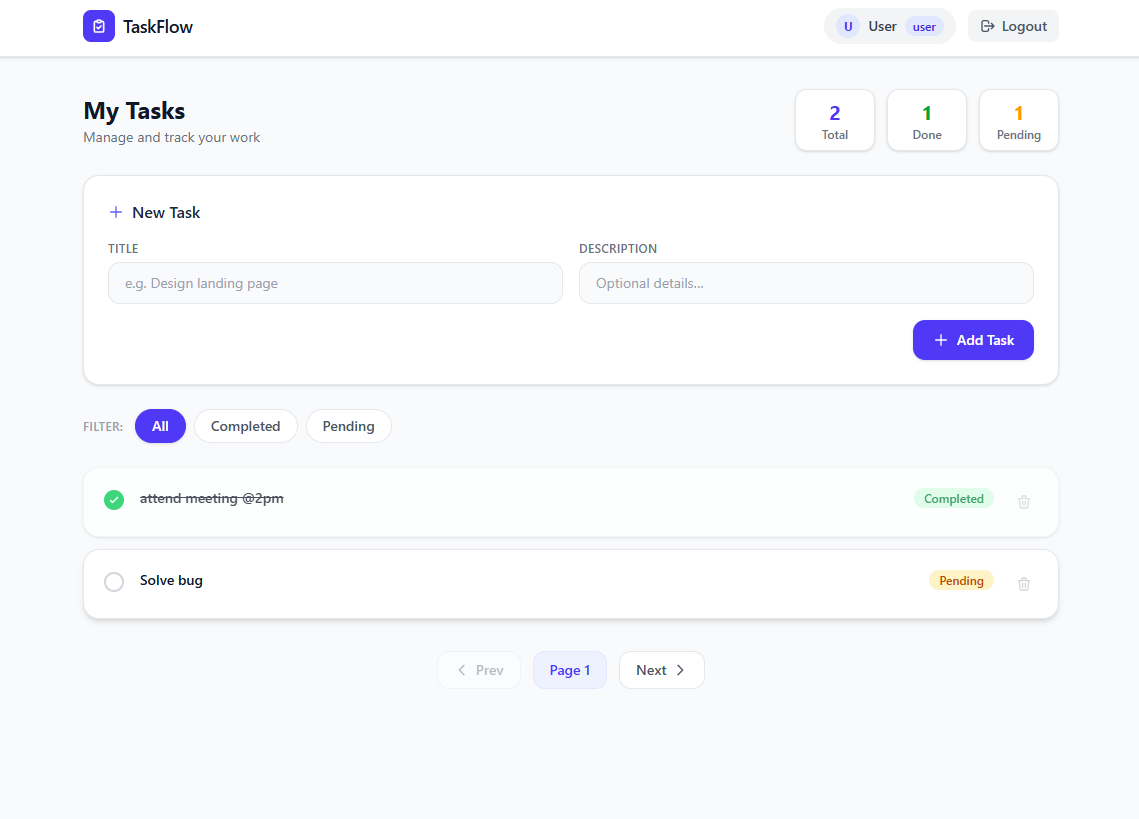
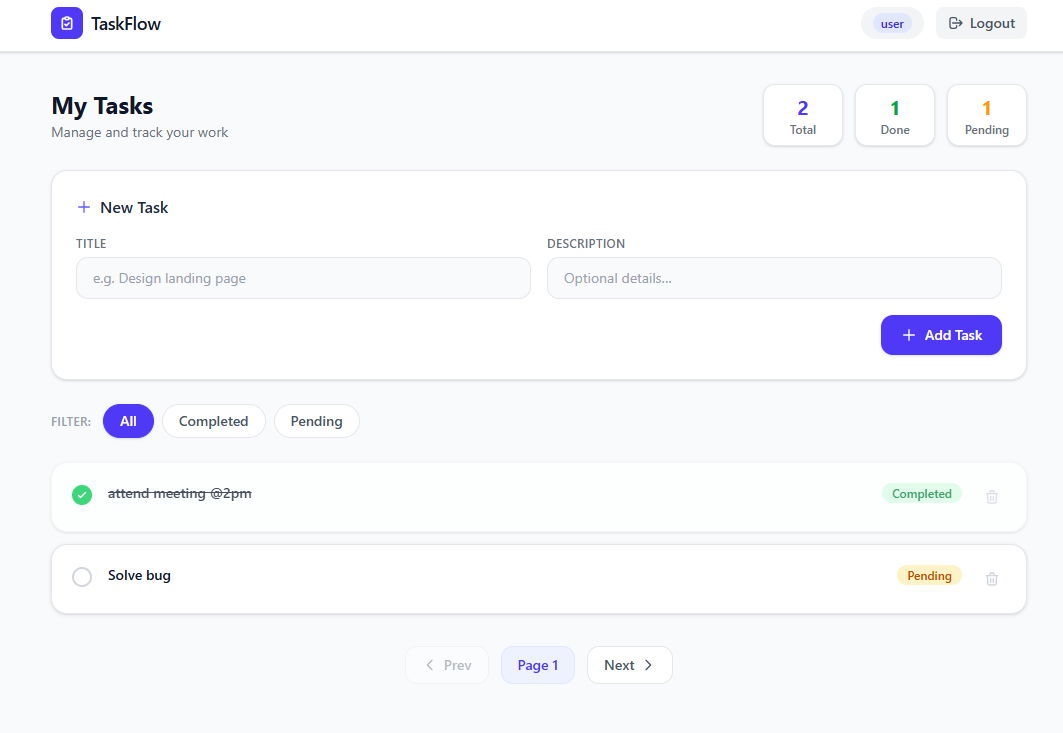
Update UI

diff --git a/frontend/src/pages/Dashboard.jsx b/frontend/src/pages/Dashboard.jsx
@@ -102,10 +102,6 @@ function Dashboard() {
           <div className="flex items-center gap-3">
             {/* User badge */}
             <div className="hidden sm:flex items-center gap-2 bg-gray-100 rounded-full px-3 py-1.5">
-              <div className="w-6 h-6 rounded-full bg-indigo-100 flex items-center justify-center text-indigo-600 font-bold text-xs uppercase">
-                {username.charAt(0)}
-              </div>
-              <span className="text-sm text-gray-700 font-medium">{username}</span>
               <span className={`text-xs px-2 py-0.5 rounded-full font-semibold ${
                 role === "admin" ? "bg-purple-100 text-purple-700" : "bg-indigo-100 text-indigo-700"
               }`}>
@@ -114,7 +110,7 @@ function Dashboard() {
             </div>
 
             {/* Admin Panel button */}
-            {role === "admin" && (
+            {/* {role === "admin" && (
               <button
                 onClick={() => navigate("/admin")}
                 className="flex items-center gap-1.5 text-sm font-medium bg-purple-600 hover:bg-purple-700 text-white px-3 py-1.5 rounded-lg transition-colors"
@@ -125,7 +121,7 @@ function Dashboard() {
                 </svg>
                 Admin Panel
               </button>
-            )}
+            )} */}
 
             {/* Logout */}
             <button
@@ -152,15 +148,15 @@ function Dashboard() {
             <p className="text-sm text-gray-500 mt-0.5">Manage and track your work</p>
           </div>
           <div className="flex gap-3">
-            <div className="bg-white rounded-xl border border-gray-200 shadow-sm px-4 py-2 text-center min-w-[80px]">
+            <div className="bg-white rounded-xl border border-gray-200 shadow-sm px-4 py-2 text-center min-w-20">
               <p className="text-xl font-bold text-indigo-600">{tasks.length}</p>
               <p className="text-xs text-gray-500 font-medium">Total</p>
             </div>
-            <div className="bg-white rounded-xl border border-gray-200 shadow-sm px-4 py-2 text-center min-w-[80px]">
+            <div className="bg-white rounded-xl border border-gray-200 shadow-sm px-4 py-2 text-center  min-w-20">
               <p className="text-xl font-bold text-green-600">{completedCount}</p>
               <p className="text-xs text-gray-500 font-medium">Done</p>
             </div>
-            <div className="bg-white rounded-xl border border-gray-200 shadow-sm px-4 py-2 text-center min-w-[80px]">
+            <div className="bg-white rounded-xl border border-gray-200 shadow-sm px-4 py-2 text-center  min-w-20">
               <p className="text-xl font-bold text-amber-500">{pendingCount}</p>
               <p className="text-xs text-gray-500 font-medium">Pending</p>
             </div>
@@ -272,7 +268,7 @@ function Dashboard() {
                 {/* Checkbox / toggle */}
                 <button
                   onClick={() => toggleComplete(task)}
-                  className={`mt-0.5 flex-shrink-0 w-5 h-5 rounded-full border-2 flex items-center justify-center transition-colors ${
+                  className={`mt-0.5 shrink-0 w-5 h-5 rounded-full border-2 flex items-center justify-center transition-colors ${
                     task.completed
                       ? "bg-green-500 border-green-500 text-white"
                       : "border-gray-300 hover:border-indigo-500"
@@ -295,7 +291,7 @@ function Dashboard() {
                       {task.title}
                     </h3>
                     {/* Status badge */}
-                    <span className={`flex-shrink-0 text-xs font-semibold px-2.5 py-0.5 rounded-full ${
+                    <span className={`shrink-0 text-xs font-semibold px-2.5 py-0.5 rounded-full ${
                       task.completed
                         ? "bg-green-100 text-green-700"
                         : "bg-amber-100 text-amber-700"
@@ -311,7 +307,7 @@ function Dashboard() {
                 {/* Delete */}
                 <button
                   onClick={() => handleDelete(task._id)}
-                  className="flex-shrink-0 p-1.5 text-gray-300 hover:text-red-500 hover:bg-red-50 rounded-lg transition-colors"
+                  className="shrink-0 p-1.5 text-gray-300 hover:text-red-500 hover:bg-red-50 rounded-lg transition-colors"
                   title="Delete task"
                 >
                   <svg className="w-4 h-4" fill="none" stroke="currentColor" viewBox="0 0 24 24">

diff --git a/frontend/src/pages/Admin.jsx b/frontend/src/pages/Admin.jsx
@@ -1,9 +1,110 @@
+// import { useEffect, useState } from "react";
+// import API from "../api/api";
+
+// function Admin() {
+//   const [users, setUsers] = useState([]);
+//   const [tasks, setTasks] = useState([]);
+
+//   // FETCH USERS
+//   const fetchUsers = async () => {
+//     try {
+//       const res = await API.get("/admin/users");
+//       setUsers(res.data);
+//     } catch (err) {
+//       console.log(err);
+//     }
+//   };
+
+//   // FETCH TASKS
+//   const fetchTasks = async () => {
+//     try {
+//       const res = await API.get("/admin/tasks");
+//       setTasks(res.data);
+//     } catch (err) {
+//       console.log(err);
+//     }
+//   };
+
+//   useEffect(() => {
+//     fetchUsers();
+//     fetchTasks();
+//   }, []);
+
+//   return (
+//     <div className="p-6 max-w-5xl mx-auto">
+
+//       {/* TITLE */}
+//       <h1 className="text-2xl font-bold mb-6">Admin Panel</h1>
+
+//       {/* USERS */}
+//       <div className="mb-8">
+//         <h2 className="text-xl font-semibold mb-3">Users</h2>
+
+//         <div className="border rounded">
+//           {users.map((user) => (
+//             <div
+//               key={user._id}
+//               className="p-3 border-b flex justify-between"
+//             >
+//               <span>{user.name}</span>
+//               <span>{user.email}</span>
+//               <span className="text-sm text-gray-500">
+//                 {user.role}
+//               </span>
+//             </div>
+//           ))}
+//         </div>
+//       </div>
+
+//       {/* TASKS */}
+//       <div>
+//         <h2 className="text-xl font-semibold mb-3">Tasks</h2>
+
+//         <div className="border rounded">
+//           {tasks.map((task) => (
+//             <div
+//               key={task._id}
+//               className="p-3 border-b"
+//             >
+//               <h3 className="font-bold">{task.title}</h3>
+//               <p>{task.description}</p>
+
+//               <div className="text-sm text-gray-600 mt-1">
+//                 User: {task.user?.name} ({task.user?.email})
+//               </div>
+
+//               <div className="text-sm">
+//                 Status:{" "}
+//                 <span
+//                   className={
+//                     task.completed
+//                       ? "text-green-600"
+//                       : "text-red-600"
+//                   }
+//                 >
+//                   {task.completed ? "Completed" : "Pending"}
+//                 </span>
+//               </div>
+//             </div>
+//           ))}
+//         </div>
+//       </div>
+
+//     </div>
+//   );
+// }
+
+// export default Admin;
+
 import { useEffect, useState } from "react";
+import { useNavigate } from "react-router-dom";
 import API from "../api/api";
 
 function Admin() {
   const [users, setUsers] = useState([]);
   const [tasks, setTasks] = useState([]);
+
+  const navigate = useNavigate();
 
   // FETCH USERS
   const fetchUsers = async () => {
@@ -30,11 +131,29 @@ function Admin() {
     fetchTasks();
   }, []);
 
+  // LOGOUT
+  const handleLogout = () => {
+    localStorage.removeItem("token");
+    navigate("/");
+  };
+
   return (
     <div className="p-6 max-w-5xl mx-auto">
 
-      {/* TITLE */}
-      <h1 className="text-2xl font-bold mb-6">Admin Panel</h1>
+      {/* TITLE + LOGOUT */}
+      <div className="flex items-center justify-between mb-6">
+        <h1 className="text-2xl font-bold">Admin Panel</h1>
+        <button
+          onClick={handleLogout}
+          className="flex items-center gap-1.5 text-sm font-medium text-gray-600 hover:text-gray-900 bg-gray-100 hover:bg-gray-200 px-3 py-1.5 rounded-lg transition-colors"
+        >
+          <svg className="w-4 h-4" fill="none" stroke="currentColor" viewBox="0 0 24 24">
+            <path strokeLinecap="round" strokeLinejoin="round" strokeWidth={2}
+              d="M17 16l4-4m0 0l-4-4m4 4H7m6 4v1a3 3 0 01-3 3H6a3 3 0 01-3-3V7a3 3 0 013-3h4a3 3 0 013 3v1" />
+          </svg>
+          Logout
+        </button>
+      </div>
 
       {/* USERS */}
       <div className="mb-8">

diff --git a/frontend/src/pages/Register.jsx b/frontend/src/pages/Register.jsx
@@ -65,7 +65,7 @@ function Register() {
         {/* Error Banner */}
         {error && (
           <div className="flex items-start gap-2.5 bg-red-50 border border-red-200 text-red-700 text-sm px-4 py-3 rounded-lg mb-6">
-            <svg className="w-4 h-4 mt-0.5 flex-shrink-0" fill="currentColor" viewBox="0 0 20 20">
+            <svg className="w-4 h-4 mt-0.5 shrink-0" fill="currentColor" viewBox="0 0 20 20">
               <path fillRule="evenodd" d="M18 10a8 8 0 11-16 0 8 8 0 0116 0zm-7 4a1 1 0 11-2 0 1 1 0 012 0zm-1-9a1 1 0 00-1 1v4a1 1 0 102 0V6a1 1 0 00-1-1z" clipRule="evenodd" />
             </svg>
             <span>{error}</span>

diff --git a/frontend/src/pages/Login.jsx b/frontend/src/pages/Login.jsx
@@ -57,7 +57,7 @@ function Login() {
         {/* Error Banner */}
         {error && (
           <div className="flex items-start gap-2.5 bg-red-50 border border-red-200 text-red-700 text-sm px-4 py-3 rounded-lg mb-6">
-            <svg className="w-4 h-4 mt-0.5 flex-shrink-0" fill="currentColor" viewBox="0 0 20 20">
+            <svg className="w-4 h-4 mt-0.5 shrink-0" fill="currentColor" viewBox="0 0 20 20">
               <path fillRule="evenodd" d="M18 10a8 8 0 11-16 0 8 8 0 0116 0zm-7 4a1 1 0 11-2 0 1 1 0 012 0zm-1-9a1 1 0 00-1 1v4a1 1 0 102 0V6a1 1 0 00-1-1z" clipRule="evenodd" />
             </svg>
             <span>{error}</span>
